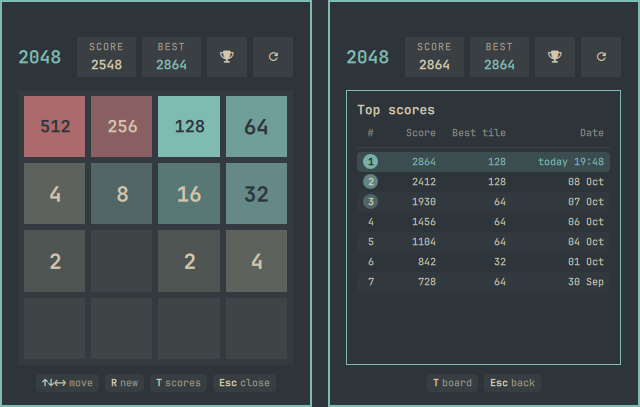
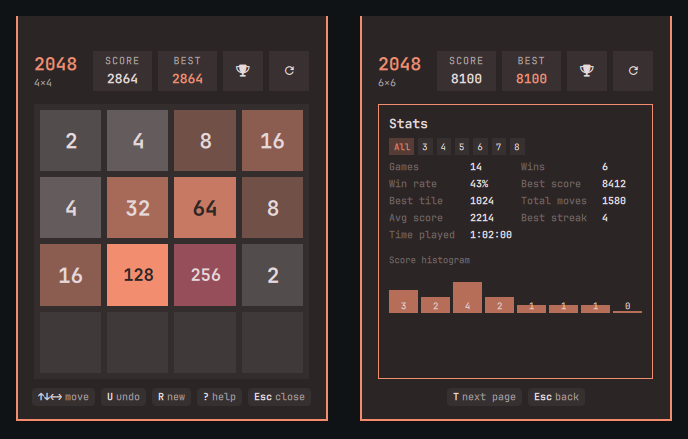
docs: rewrite README, add v2 screenshots, bump to 2.0.0
README rewritten around the 2.0.0 features: a "compared with a typical
2048 plugin" table (no competitor named or mocked), a full controls
table, an updated Data and privacy section covering the two new fixed
argv processes (pw-play, wl-copy), and a Credits note that
assets/merge.wav is original (generated offline).

New screenshots (4x4, 6x6, stats, achievements, daily, settings) and a
composed preview.png. manifest.json bumped to 2.0.0.

Add 7x7 to the board sizes (the reviewer note): SUPPORTED_SIZES is now
3,4,5,6,7,8, so the settings picker, stats filter and cycleSize include
it, and 7x7 abbreviates tiles from 1,000 like 8x8.

diff --git a/tests/run-model-tests.js b/tests/run-model-tests.js
@@ -854,7 +854,7 @@ function snapshotOf(cells, score, moves) {
 // --- 20. board sizes (N×N) -----------------------------------------------
 
 test("emptyState builds an N×N board for every supported size", () => {
-  same(Game.SUPPORTED_SIZES, [3, 4, 5, 6, 8])
+  same(Game.SUPPORTED_SIZES, [3, 4, 5, 6, 7, 8])
   for (const size of Game.SUPPORTED_SIZES) {
     const state = Game.emptyState(0, size)
     assert.equal(state.version, 3)
@@ -958,8 +958,8 @@ test("startNewGame stays on its own board size", () => {
 test("parseState rejects an unsupported board size", () => {
   const base = {
     version: 3,
-    size: 7,
-    cells: square(7, 0),
+    size: 9,
+    cells: square(9, 0),
     score: 0,
     best: 0,
     moves: 0,
@@ -1139,7 +1139,7 @@ test("setActiveSize/cycleSize switch boards and wrap around", () => {
   assert.equal(Game.cycleSize(8, 1), 3, "wraps forward 8 -> 3")
   assert.equal(Game.cycleSize(3, -1), 8, "wraps back 3 -> 8")
   assert.equal(Game.cycleSize(4, 1), 5)
-  assert.equal(Game.setActiveSize(profile, 7).activeSize, 4, "unsupported size is ignored")
+  assert.equal(Game.setActiveSize(profile, 9).activeSize, 4, "unsupported size is ignored")
 })
 
 test("setGame replaces only the matching size and keeps the rest", () => {
@@ -1686,6 +1686,7 @@ test("abbreviateTile drops to 1k from 1,000 on 7x7+ boards", () => {
   assert.equal(Game.abbreviateTile(8192, 8), "8k")
   assert.equal(Game.abbreviateTile(512, 8), "512")
   assert.equal(Game.abbreviateTile(16384, 8), "16k")
+  assert.equal(Game.abbreviateTile(1024, 7), "1k", "7x7 abbreviates too")
   // smaller boards keep the 10,000 threshold
   assert.equal(Game.abbreviateTile(1024, 4), "1024")
   assert.equal(Game.abbreviateTile(8192, 6), "8192")

diff --git a/Panel.qml b/Panel.qml
@@ -1762,7 +1762,8 @@ Panel {
 
                 Repeater {
                   model: [{ label: "All", size: 0 }, { label: "3", size: 3 }, { label: "4", size: 4 },
-                          { label: "5", size: 5 }, { label: "6", size: 6 }, { label: "8", size: 8 }]
+                          { label: "5", size: 5 }, { label: "6", size: 6 }, { label: "7", size: 7 },
+                          { label: "8", size: 8 }]
 
                   Rectangle {
                     required property var modelData
@@ -2088,7 +2089,7 @@ Panel {
                   width: parent.width - Style.space(54) - Style.space(6)
                   spacing: Style.space(4)
                   Repeater {
-                    model: [3, 4, 5, 6, 8]
+                    model: [3, 4, 5, 6, 7, 8]
                     SettingChip {
                       required property var modelData
                       chipLabel: modelData + "×" + modelData

diff --git a/Game2048.js b/Game2048.js
@@ -4,7 +4,7 @@ var VERSION = 3
 var SIZE = 4
 // Board sizes the player can pick with `[` / `]` or the header badge. 4×4 is
 // the default and the size every legacy state file was written for.
-var SUPPORTED_SIZES = [3, 4, 5, 6, 8]
+var SUPPORTED_SIZES = [3, 4, 5, 6, 7, 8]
 // Undo is a ring of the last 50 pre-move snapshots; the challenge setting caps
 // how many undos a single game may use.
 var UNDO_RING = 50

diff --git a/README.md b/README.md
@@ -1,27 +1,52 @@
 # 2048
 
-The classic 2048 sliding-tile game in a keyboard-driven, theme-aware Omarchy bar panel.
+The classic 2048 sliding-tile game in a keyboard-driven, theme-aware Omarchy bar panel — with undo, six board sizes, stats, achievements and a daily challenge.
 
 ![2048 panel](preview.png)
 
 ## Screenshots
 
-| Board | Top scores |
-|:---:|:---:|
-| ![Board mid-game](screenshots/board.png) | ![Top scores](screenshots/scores.png) |
-| ![Win card](screenshots/win.png) | ![Game over card](screenshots/gameover.png) |
+| Board (4×4) | Board (6×6) | Settings |
+|:---:|:---:|:---:|
+| ![4x4 board](screenshots/board-4x4.png) | ![6x6 board](screenshots/board-6x6.png) | ![Settings](screenshots/settings.png) |
+| **Stats** | **Achievements** | **Daily challenge** |
+| ![Stats](screenshots/stats.png) | ![Achievements](screenshots/achievements.png) | ![Daily](screenshots/daily.png) |
 
 ## Features
 
-- Classic sliding-tile game with the standard merge rules, on boards from **3×3 to 8×8** (3, 4, 5, 6 and 8) — each size keeps its own saved game, best score and top-10 leaderboard.
-- **Undo** the last 50 moves with `U` or `Ctrl+Z`. Undo also lifts you out of a game over or the win card. A game that used undo is marked `assisted` and never enters the leaderboard.
-- Tiles slide between cells and merged tiles pop; a `+N` indicator floats up on merges, and the score counts up instead of jumping.
-- Theme-aware palette with automatic text contrast — every color comes from the active Omarchy theme, and the tile text color is chosen by WCAG contrast (no hard-coded colors).
-- Header with score and best-score cards; beating your best briefly highlights the BEST card.
-- A local top-10 leaderboard of your own finished games, with medal ranks, a highlighted latest entry and per-entry dates.
-- Play with the keyboard, the mouse or a touchpad: drag/swipe the board to move, and click the buttons in the win or game-over card.
-- A key-chip footer always shows the available shortcuts for the current view.
-- The board, best score and leaderboard persist across panel closes, shell restarts and reboots.
+**Game**
+- Boards from **3×3 to 8×8** (3, 4, 5, 6, 7 and 8). Each size keeps its own saved game, best score and top-10 leaderboard; switch with `[` / `]`, the header badge, or the settings page.
+- **Undo** the last 50 moves (`U` / `Ctrl+Z`), including out of a game over or the win card. A game that used undo is marked *assisted* and never enters the leaderboard.
+- Slide/pop animation, a `+N` gain indicator, a score count-up, invalid-move shake, big-merge glow rings (128+ and stronger at 1024+), a combo badge for streaks, and confetti on 2048/4096.
+- **Optional sound** (off by default): a merge blip whose pitch rises with the tile.
+- Play with the keyboard, mouse or touchpad (drag/swipe), and a full keyboard help overlay on `?`.
+
+**Progress**
+- **Stats** per size and overall: games, wins, win rate, best score, best tile, total moves, average score, longest streak, time played, and a score histogram.
+- **Achievements** (a badge grid with unlock toasts): first 512/1024/2048/4096, a win without undo, a win in ≤100 moves, a 5-win streak, and a comeback from a crowded board.
+- **Daily challenge**: the same date-seeded board for everyone, one attempt a day, its own history, and share text copied to the clipboard.
+
+**Look and feel**
+- Theme-native by default: every colour comes from the active Omarchy theme, and tile text is chosen by WCAG contrast. Optional **classic 2048**, **mono** and **high-contrast** palettes.
+- **Numerals** in five scripts (Western, Arabic-Indic, Devanagari, Bengali, CJK) on tiles and scores.
+- **Window scale** 90–150 %, a `motion` setting (full / reduced / off) that gates every animation, and a header/footer that stays out of the way.
+
+### Compared with a typical 2048 plugin
+
+| | Typical 2048 plugin | This plugin |
+|---|:---:|:---:|
+| Classic sliding-tile game + keyboard | ✓ | ✓ |
+| Theme-aware colours, auto text contrast | sometimes | ✓ |
+| Persisted board, best, leaderboard | sometimes | ✓ |
+| Multiple board sizes (3×3 – 8×8) | sometimes | ✓ |
+| Undo | sometimes | ✓ (50 moves, assisted flag) |
+| Stats page with histogram | rare | ✓ |
+| Achievements | rare | ✓ |
+| Daily challenge (seeded) | rare | ✓ |
+| High-contrast palette | rare | ✓ |
+| Numerals in multiple scripts | rare | ✓ |
+| Sound, motion setting | sometimes | ✓ (off by default) |
+| Multi-monitor sync | rare | ✓ |
 
 ## Install
 
@@ -31,10 +56,11 @@ omarchy plugin add https://github.com/pwn27sbx/2048.git --enable
 
 ## Requirements
 
-- `python3` — preinstalled on Omarchy.
+- `python3` — preinstalled on Omarchy (the state helper).
 - `timeout` — part of coreutils, preinstalled on Omarchy.
+- `pw-play` (PipeWire) — only if you enable sound; `wl-copy` (wl-clipboard) — only for the daily share button.
 
-No other dependencies.
+No other dependencies. The plugin itself bundles no runtime beyond these.
 
 ## Controls
 
@@ -43,15 +69,15 @@ No other dependencies.
 | Arrow keys / `H` `J` `K` `L` / `W` `A` `S` `D` | Move tiles |
 | Drag or swipe on the board | Move tiles (mouse / touchpad) |
 | `U` or `Ctrl+Z` | Undo the last move |
-| `[` / `]` or click the size badge | Switch board size (3×3 – 8×8) |
-| `R` | New game |
-| `T` | Top scores |
+| `[` / `]` or the header size badge | Switch board size (3×3 – 8×8) |
+| `R` | New game (a confirm prompt if the setting is on) |
+| `T` | Next page: board → scores → stats → achievements → daily → settings → help |
+| `?` | Keyboard help |
 | `Enter` / `Space` | Keep going after 2048; new game after game over |
-| `Esc` | Close the panel; in the scores view, go back to the board |
+| `Esc` | Back a page, leave the daily, or close the panel |
 | `Tab` | Switch to the neighbouring bar panel |
-| Click the card buttons | Keep going / New game in the win or game-over card |
 
-Clicking or tapping the board returns keyboard focus to it; a click with no drag only restores focus, and drags are ignored while the scores view or an overlay is open. The footer shows these keys as chips for the current view.
+Clicking the board returns keyboard focus to it; a click with no drag only restores focus. The footer shows the keys for the current page.
 
 ## Optional keybinding
 
@@ -59,14 +85,23 @@ To open the panel from anywhere, add a keybinding to your Hyprland Lua config. T
 
 ```lua
 o.bind("SUPER + ALT + 2", "2048", "omarchy-shell pwnsxb.2048 toggle")
+o.bind("SUPER + ALT + P", "2048 stats", "omarchy-shell pwnsxb.2048 page stats")
 ```
+
+`omarchy-shell pwnsxb.2048 page <name>` opens any page from a script or keybinding (`scores`, `stats`, `achievements`, `daily`, `settings`, `help`).
 
 ## Data and privacy
 
-- The board, best score and leaderboard live in `${XDG_STATE_HOME}/pwnsxb-2048/state.json` (default `~/.local/state/pwnsxb-2048/state.json`). `XDG_STATE_HOME` is used only when it is an absolute path; otherwise the default applies.
-- The panel runs one bundled Python helper (`helpers/state_io.py`) with fixed arguments for every state read and write: no shell, no network, no account. The helper stores an owner-only `0600` file, reads at most 64 KiB, and follows no symlinks.
-- The leaderboard is local only: it keeps the top 10 of your own finished games, lives in that same file, and is reset by deleting that file.
+- All game data (per-size games, bests, leaderboard, stats, achievements, daily history) lives in one file: `${XDG_STATE_HOME}/pwnsxb-2048/state.json` (default `~/.local/state/pwnsxb-2048/state.json`). `XDG_STATE_HOME` is used only when it is an absolute path.
+- Every read and write goes through one bundled Python helper (`helpers/state_io.py`) with fixed arguments — no shell, no network, no account. The helper opens the state directory and file with `O_NOFOLLOW` and checks they are owned by you, reads at most **64 KiB**, and writes atomically: an owner-only `0600` temp file, `fsync`, then `os.replace`, then a directory `fsync`.
+- The only other processes are fixed-argument helpers: `pw-play` (a bundled WAV, only if sound is on) and `wl-copy` (the daily share text). Neither takes a path or text from anywhere but this plugin's own bundle/state.
+- The leaderboard and stats are local only and reset by deleting that file.
 - If the state file is corrupt, oversized or unreadable, the game starts a new game and the best score restarts at 0.
+
+## Credits
+
+- Tiles, layout, code and artwork are original to this plugin (MIT).
+- `assets/merge.wav` is an original short blip generated for this plugin (synthesized offline; no third-party sample), so the whole plugin is MIT-clean.
 
 ## Development
 
